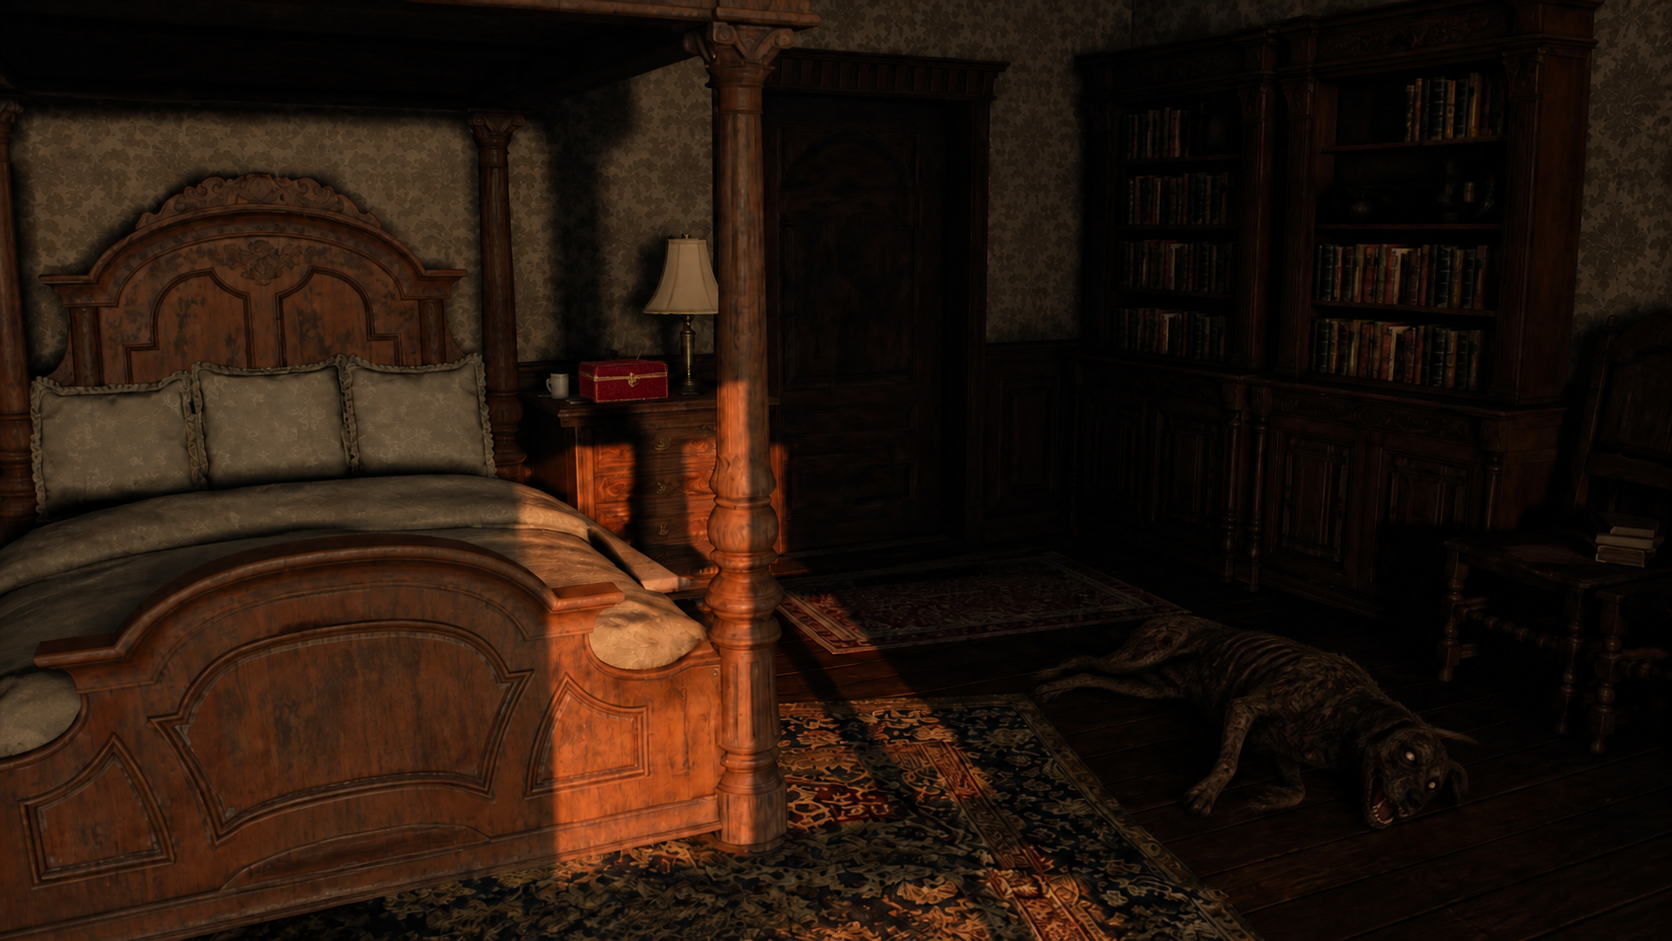
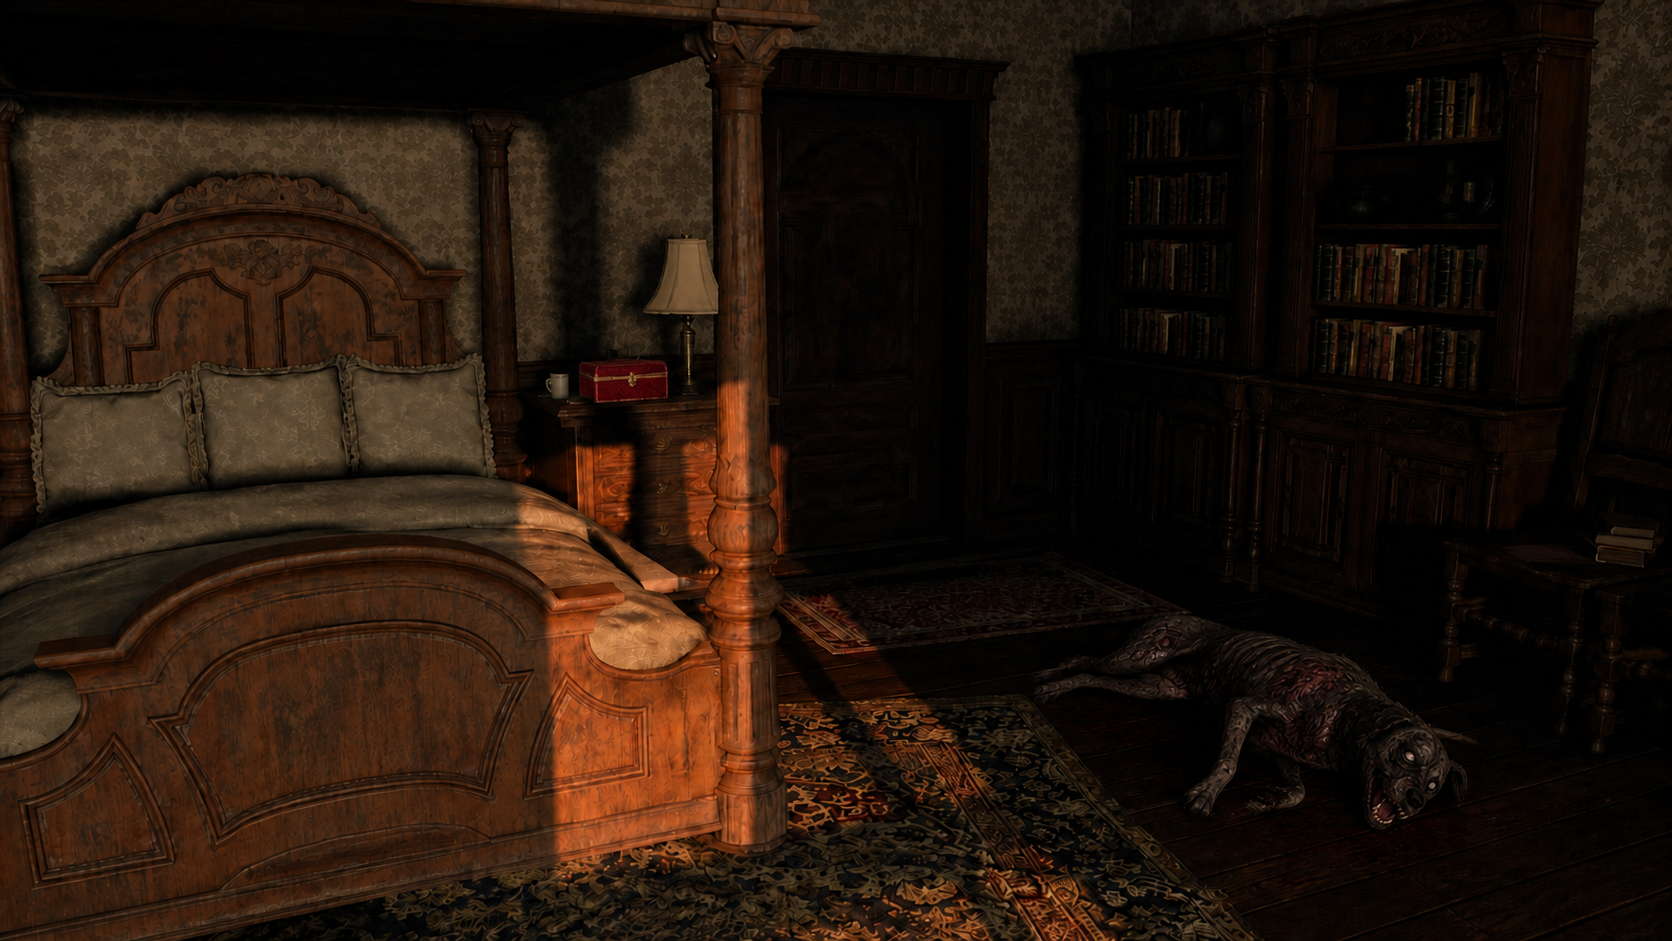
Make infected dog more visibly undead

diff --git a/app/page.tsx b/app/page.tsx
@@ -92,7 +92,7 @@ export default function Home() {
       const Phaser = window.Phaser;
       class RoomScene extends Phaser.Scene {
         preload() {
-          this.load.image("village-chief-bedroom", "/rooms/village-chief-bedroom.png?v=items");
+          this.load.image("village-chief-bedroom", "/rooms/village-chief-bedroom.png?v=zombie2");
           this.load.image("village-chief-ladder", "/rooms/village-chief-ladder.png?v=roses");
           this.load.image("village-chief-window", "/rooms/village-chief-window.png?v=sunset");
           this.load.image("village-chief-yard", "/rooms/village-chief-yard.png?v=game-reference");

diff --git a/docs/index.html b/docs/index.html
@@ -59,7 +59,7 @@
 
     class RoomScene extends Phaser.Scene{
       preload(){
-        this.load.image('bedroom','assets/village-chief-bedroom.png?v=items');
+        this.load.image('bedroom','assets/village-chief-bedroom.png?v=zombie2');
         this.load.image('ladder','assets/village-chief-ladder.png?v=roses');
         this.load.image('window','assets/village-chief-window.png?v=sunset');
         this.load.image('yard','assets/village-chief-yard.png?v=game-reference');
